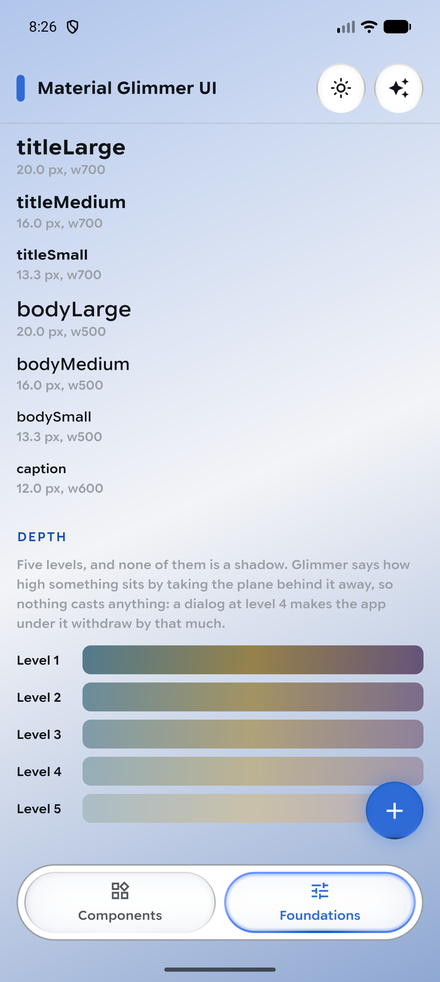
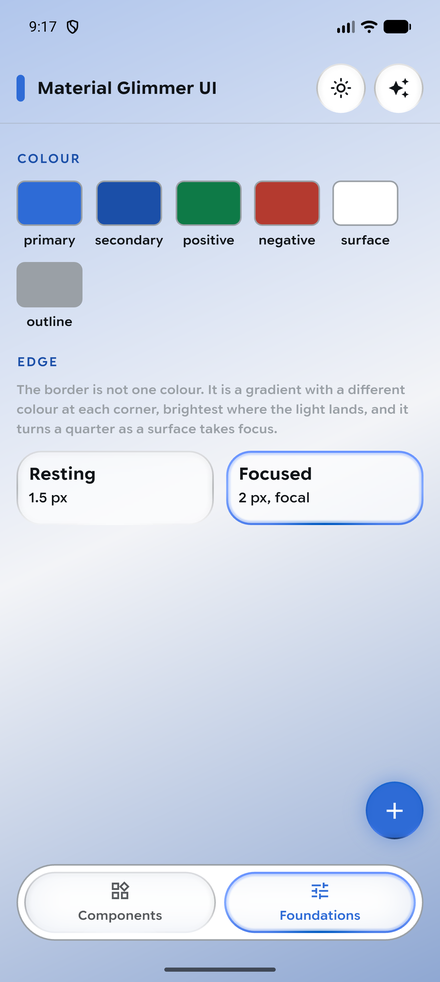
Trim Foundations, make the switch mean something, let the bar glow
The upstream checkout at doc/google_androidx is 2.5 GB of Google's code
under Apache 2.0, sitting untracked inside a repository that is MIT and
public. It is in .gitignore and .pubignore now, along with the review
log beside it, and git add -A no longer picks either up. Nothing had
leaked, but this session has run git add -A many times and the folder
only needed to exist during one of them.

doc/reference.md is that log, and no longer committed. It pins the
checkout HEAD and the last xr/glimmer commit read, with the command to
list what has landed since, so the next review starts from a known
point. The README section that linked to it is gone with it.

Foundations loses Type and Depth. A type specimen is odd in a package
that ships no fonts, and the depth ramp was abstract. What is left is
Colour and a new Edge section showing a resting and a focused surface
side by side, which is the thing the kit is named after and belongs
under foundations more than a swatch grid does. Two screens either way,
so the navigation strip still has something to do.

The switch said "Immersive controls, dim everything but the focused
surface" and dimmed nothing. It is the ambient sweep now, and drives the
card directly beneath it, so what it does is visible without scrolling.
A toggle in a gallery that changes nothing is furniture.

The indeterminate bar's highlight was drawn inside the track's clip,
which meant it could soften but never leave, so it read as a brighter
[…]

diff --git a/example/lib/main.dart b/example/lib/main.dart
@@ -125,7 +125,7 @@ class _ComponentsPageState extends State<_ComponentsPage> {
   var _refreshed = false;
   var _muted = false;
   var _listening = true;
-  var _immersive = false;
+  var _ambient = false;
   var _progress = 0.4;
   var _digest = true;
   var _roast = 'Medium';
@@ -678,14 +678,28 @@ class _ComponentsPageState extends State<_ComponentsPage> {
             prefixIcon: Icons.add,
           ),
           SizedBox(height: spacing.medium),
+          // The switch drives the card directly below it, so it is obvious
+          // what it is for. A toggle in a gallery that changes nothing is
+          // furniture.
           GlimmerListItem(
-            label: 'Immersive controls',
-            supportingLabel: 'Dim everything but the focused surface',
+            label: 'Ambient sweep',
+            supportingLabel:
+                'A highlight travels the edge of a focused surface',
             trailing: GlimmerSwitch(
-              value: _immersive,
-              label: 'Immersive controls',
-              onChanged: (value) => setState(() => _immersive = value),
+              value: _ambient,
+              label: 'Ambient sweep',
+              onChanged: (value) => setState(() => _ambient = value),
             ),
+          ),
+          SizedBox(height: spacing.medium),
+          GlimmerCard(
+            focused: true,
+            enableAmbientPulse: _ambient,
+            leadingIcon: Icons.auto_awesome,
+            title: 'Watch the edge',
+            supportingText: _ambient
+                ? 'The highlight runs once, waits, and runs again.'
+                : 'Turn the sweep on to see it.',
           ),
           SizedBox(height: spacing.large),
           GlimmerProgressBar(value: _progress),
@@ -732,16 +746,6 @@ class _FoundationsPage extends StatelessWidget {
       'outline': colors.outline,
     };
 
-    final styles = <String, TextStyle>{
-      'titleLarge': type.titleLarge,
-      'titleMedium': type.titleMedium,
-      'titleSmall': type.titleSmall,
-      'bodyLarge': type.bodyLarge,
-      'bodyMedium': type.bodyMedium,
-      'bodySmall': type.bodySmall,
-      'caption': type.caption,
-    };
-
     return ListView(
       padding: EdgeInsets.fromLTRB(spacing.large, 24, spacing.large, 24),
       children: [
@@ -770,58 +774,33 @@ class _FoundationsPage extends StatelessWidget {
           ],
         ),
         SizedBox(height: spacing.extraLarge),
-        const _SectionLabel('Type'),
-        SizedBox(height: spacing.medium),
-        for (final entry in styles.entries) ...[
-          Text(entry.key, style: entry.value),
-          Text(
-            '${entry.value.fontSize!.toStringAsFixed(1)} px, '
-            'w${entry.value.fontWeight!.value}',
-            style: type.caption.copyWith(color: colors.outline),
-          ),
-          SizedBox(height: spacing.medium),
-        ],
-        SizedBox(height: spacing.large),
-        const _SectionLabel('Depth'),
+        const _SectionLabel('Edge'),
         SizedBox(height: spacing.small),
         Text(
-          'Five levels, and none of them is a shadow. Glimmer says how high '
-          'something sits by taking the plane behind it away, so nothing casts '
-          'anything: a dialog at level 4 makes the app under it withdraw by '
-          'that much.',
+          'The border is not one colour. It is a gradient with a different '
+          'colour at each corner, brightest where the light lands, and it '
+          'turns a quarter as a surface takes focus.',
           style: type.caption.copyWith(color: colors.outline),
         ),
         SizedBox(height: spacing.medium),
-        for (var level = 1; level <= 5; level++) ...[
-          Row(
-            children: [
-              SizedBox(
-                width: 64,
-                child: Text('Level $level', style: type.caption),
+        Row(
+          children: [
+            const Expanded(
+              child: GlimmerCard(
+                title: 'Resting',
+                supportingText: '1.5 px',
               ),
-              Expanded(
-                child: ClipRRect(
-                  borderRadius: tokens.shapes.small,
-                  child: SizedBox(
-                    height: 28,
-                    child: Stack(
-                      fit: StackFit.expand,
-                      children: [
-                        const _Backdrop(),
-                        ColoredBox(
-                          color: colors.background.withValues(
-                            alpha: tokens.depth[level].recede,
-                          ),
-                        ),
-                      ],
-                    ),
-                  ),
-                ),
+            ),
+            SizedBox(width: spacing.medium),
+            const Expanded(
+              child: GlimmerCard(
+                focused: true,
+                title: 'Focused',
+                supportingText: '2 px, focal',
               ),
-            ],
-          ),
-          SizedBox(height: spacing.small),
-        ],
+            ),
+          ],
+        ),
       ],
     );
   }
@@ -884,25 +863,6 @@ class _SectionLabel extends StatelessWidget {
       style: tokens.typography.caption.copyWith(
         color: tokens.colors.secondary,
         letterSpacing: 1.2,
-      ),
-    );
-  }
-}
-
-/// A warm gradient standing in for a camera pass-through, so the surfaces on
-/// top of it have something worth filtering.
-class _Backdrop extends StatelessWidget {
-  const _Backdrop();
-
-  @override
-  Widget build(BuildContext context) {
-    return const Positioned.fill(
-      child: GlimmerBackdrop(
-        colors: [
-          Color(0xFF3E6B80),
-          Color(0xFF8A7434),
-          Color(0xFF54406B),
-        ],
       ),
     );
   }

diff --git a/lib/src/glimmer_controls.dart b/lib/src/glimmer_controls.dart
@@ -428,6 +428,11 @@ class _GlimmerProgressPainter extends CustomPainter {
     final rect = Offset.zero & size;
     final rrect = RRect.fromRectAndRadius(rect, const Radius.circular(999));
 
+    // The bloom goes down first and outside the clip. Light that cannot leave
+    // the track is not a glow, it is a softer stretch of track, which is what
+    // it looked like when this was drawn inside the clip with everything else.
+    if (value == null) _sweepBloom(canvas, size);
+
     // The same track and graded edge the slider carries, so a bar in a list of
     // surfaces reads as part of the system rather than as a plain rule.
     canvas
@@ -486,33 +491,59 @@ class _GlimmerProgressPainter extends CustomPainter {
     );
   }
 
-  void _sweepHighlight(Canvas canvas, Size size) {
-    // The highlight is wider than a block and tapers to nothing at both ends,
-    // which is what makes it read as light passing rather than as an object
-    // sliding. It starts fully off one end and finishes fully off the other.
+  /// Where the travelling highlight sits, or null when there is no room.
+  ///
+  /// It is wider than a block and tapers to nothing at both ends, which is what
+  /// makes it read as light passing rather than as an object sliding. It starts
+  /// fully off one end and finishes fully off the other.
+  Rect? _sweepBand(Size size) {
     final span = size.width * 0.42;
     final travel = size.width + span;
     final centre = (-span / 2) + (travel * sweep);
     final band = Rect.fromLTWH(centre - (span / 2), 0, span, size.height);
-    if (band.width <= 0) return;
+    return band.width <= 0 ? null : band;
+  }
 
+  void _sweepHighlight(Canvas canvas, Size size) {
+    final band = _sweepBand(size);
+    if (band == null) return;
+
+    canvas.drawRect(band, Paint()..shader = _highlightShader(band));
+  }
+
+  /// The light the highlight throws past the edges of the track.
+  ///
+  /// Drawn outside the clip, taller than the bar and blurred, so it reads as a
+  /// glow travelling under the surface rather than as a bright patch of track.
+  void _sweepBloom(Canvas canvas, Size size) {
+    final band = _sweepBand(size);
+    if (band == null) return;
+    final bloom = Rect.fromLTRB(
+      band.left,
+      band.top - size.height,
+      band.right,
+      band.bottom + size.height,
+    );
     canvas.drawRect(
-      band,
+      bloom,
       Paint()
-        ..shader = LinearGradient(
-          begin: Alignment.centerLeft,
-          end: Alignment.centerRight,
-          colors: [
-            active.withValues(alpha: 0),
-            active,
-            Color.lerp(active, tint, 0.45)!,
-            active,
-            active.withValues(alpha: 0),
-          ],
-          stops: const [0, 0.32, 0.5, 0.68, 1],
-        ).createShader(band),
+        ..shader = _highlightShader(band)
+        ..maskFilter = MaskFilter.blur(BlurStyle.normal, size.height * 0.9),
     );
   }
+
+  Shader _highlightShader(Rect band) => LinearGradient(
+        begin: Alignment.centerLeft,
+        end: Alignment.centerRight,
+        colors: [
+          active.withValues(alpha: 0),
+          active,
+          Color.lerp(active, tint, 0.45)!,
+          active,
+          active.withValues(alpha: 0),
+        ],
+        stops: const [0, 0.32, 0.5, 0.68, 1],
+      ).createShader(band);
 
   @override
   bool shouldRepaint(_GlimmerProgressPainter old) =>

diff --git a/example/test/widget_test.dart b/example/test/widget_test.dart
@@ -38,10 +38,7 @@ void main() {
     await tester.tap(find.text('Foundations'));
     await tester.pump(const Duration(seconds: 1));
 
-    // The depth section is below the fold, and a ListView does not build what
-    // it has not reached.
     expect(find.text('COLOUR'), findsOneWidget);
-    expect(find.text('TYPE'), findsOneWidget);
   });
 
   testWidgets('the top bar toggle re-themes the whole gallery', (tester) async {

diff --git a/README.md b/README.md
@@ -305,14 +305,6 @@ Minimum touch heights do not change with it. A medium button is 48, a large one
   Pass `GlimmerTextSelection.controls`, `.contextMenuBuilder` and `.magnifier`
   to a plain `TextField` to get them there too.
 
-## What it was read against
-
-[doc/reference.md](doc/reference.md) records the exact upstream revision the
-ideas were read from: the git tree and blob ids of every file, and the date.
-`tool/fetch_reference.py` refreshes both the local mirror and that record. The
-mirror itself is not committed and not published, because it is Google's code
-under Apache 2.0 rather than ours.
-
 ## Not done yet
 
 This is 0.6.0, and these are the edges. None of them is a surprise waiting to
